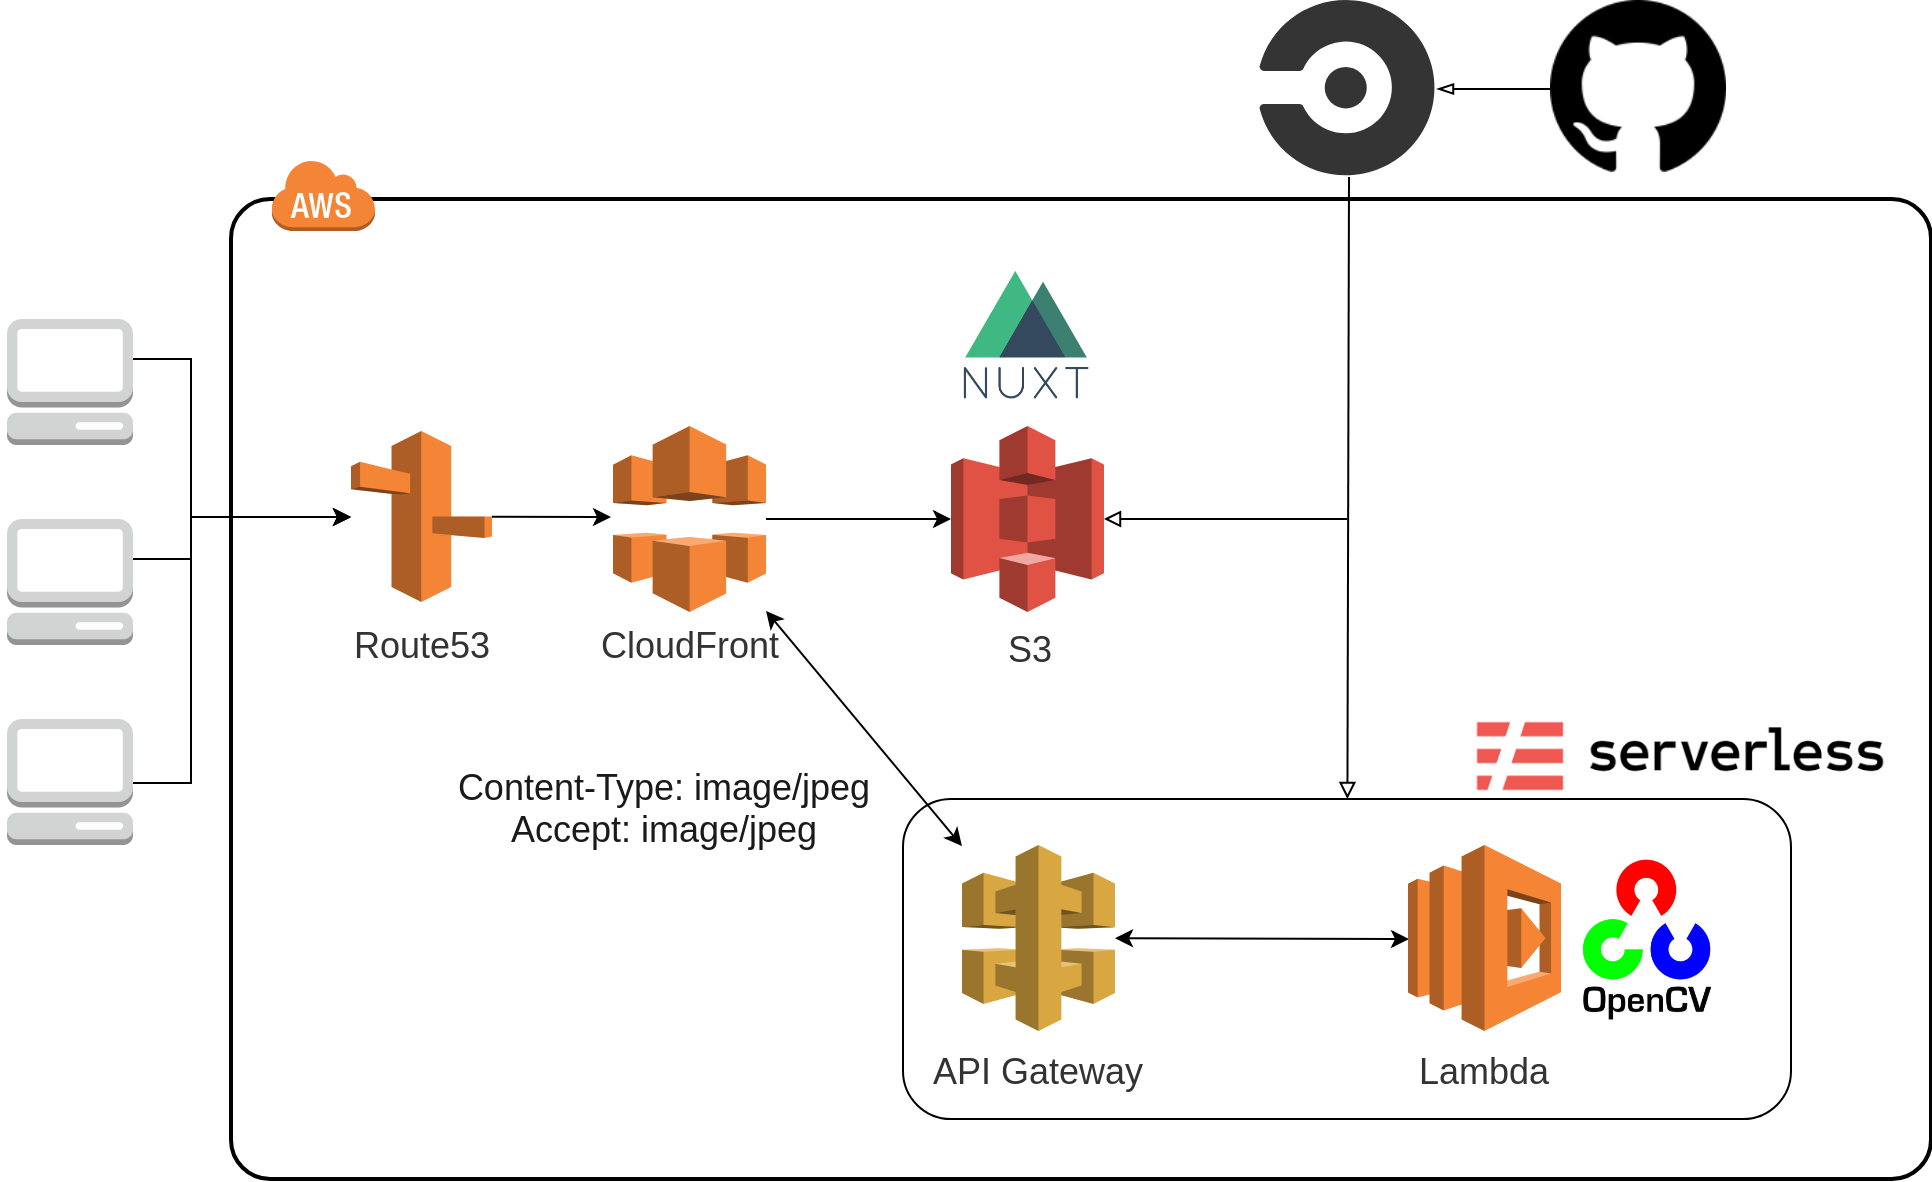
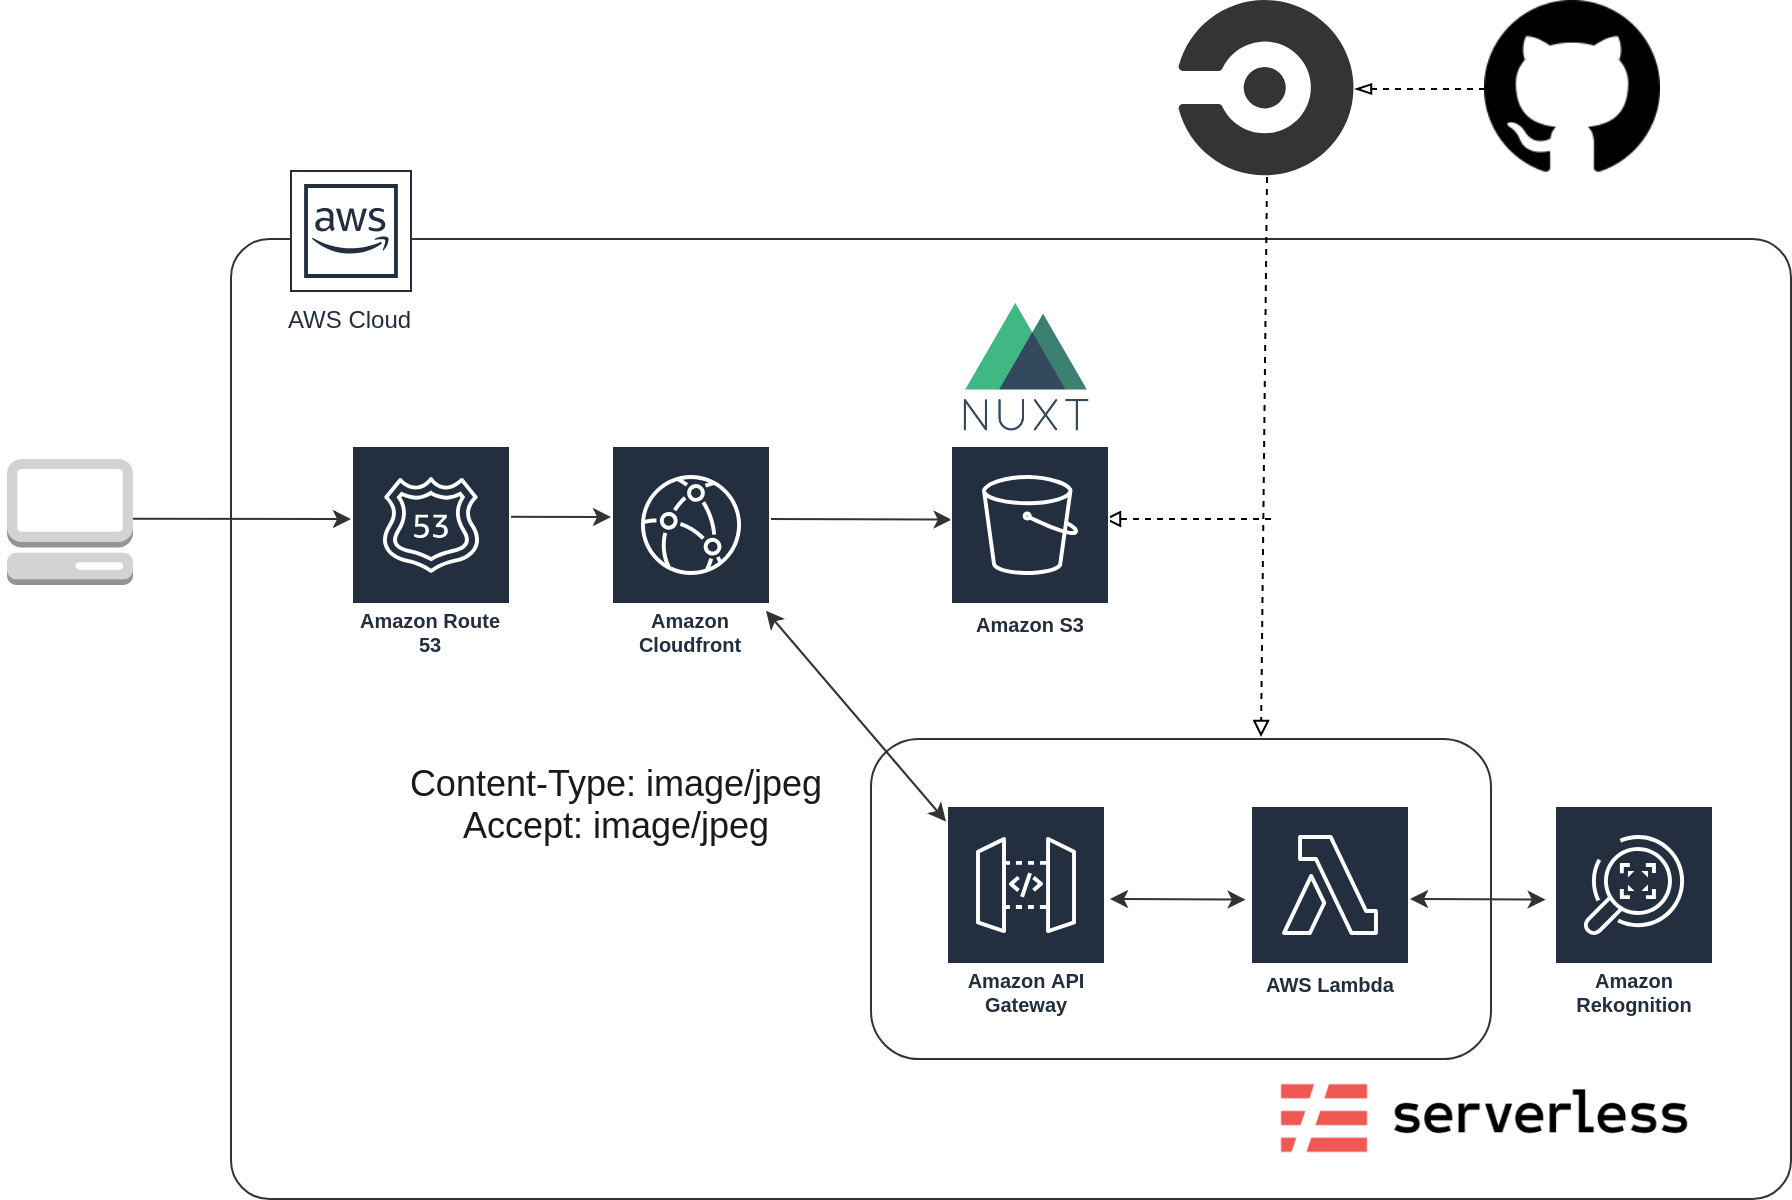
アーキテクチャ図を変更 (#52)
* アーキテクチャ図を変更

* リファクタリング

* トップページの画像を変更

* Readmeを修正

* Qiitaのリンクを追加

* リンクを修正

* 文言を修正

* type hintsの方を修正

diff --git a/lambda/detect_face.py b/lambda/detect_face.py
@@ -28,7 +28,7 @@ def convertBinaryToImageArray(binary: bytes) -> np.ndarray:
     return image_array
 
 
-def detectFacesByRekognition(image_binary: bytes) -> List[List[int]]:
+def detectFacesByRekognition(image_binary: bytes) -> List[List[float]]:
     client = boto3.client('rekognition')
     response = client.detect_faces(
         Image={'Bytes': image_binary}, Attributes=['ALL'])
@@ -48,7 +48,7 @@ face : 顔認識結果
 """
 
 
-def pasteEmoji(image: np.ndarray, face: List[int]) -> np.ndarray:
+def pasteEmoji(image: np.ndarray, face: List[float]) -> np.ndarray:
 
     height, width, _ = image.shape[:3]
 
@@ -69,7 +69,7 @@ def pasteEmoji(image: np.ndarray, face: List[int]) -> np.ndarray:
     # 顔が画像からはみ出しそうなときはサイズを小さくする
     if face_top + face_size > height or face_left + face_size > width:
         face_size = min(height - face_top, width - face_left)
-        
+
     # -1 : アルファチャンネルで読み込む
     emoji = cv2.imread(
         "emoji/{:0=3}.png".format(random.randrange(1, 71, 1)), -1)
@@ -119,13 +119,10 @@ def lambda_handler(event, context):
         response_image = io.BytesIO()
         Image.fromarray(image.astype('uint8')).save(
             response_image, "JPEG")
-
-        # レスポンスを作成
         body = base64.b64encode(response_image.getvalue()).decode('utf-8')
 
-        statusCode = 200
-
         # 204で顔が検出されなかったことを表現
+        statusCode = 200
         if len(faces) == 0:
             statusCode = 204
 

diff --git a/README.md b/README.md
@@ -11,14 +11,18 @@
 
 ![アーキテクチャ図](./docs/emojic_architecture.png)
 
-- [えもじっく](https://emojic.ch)のフロントエンドはNuxt.jsで構築されています。CircleCIでmasterブランチにマージされるたびにデプロイされます。
-- バックエンドはAWS API GatewayとLambdaを用いたサーバーレスな構成で構築されています。
-- Lambda関数はPythonで書かれており、OpenCVで顔認識を行っています。
+- [えもじっく](https://emojic.ch)のフロントエンドはNuxt.jsで構築されています。
+- バックエンドAPIはAamazon API GatewayとAWS LambdaをServerless Frameworkを使って構築しています。
+- Lambda関数はPythonで書かれており、Amazon Rekognitionを使って顔認識を行っています。
+- デプロイはすべてCircleCIで行っており、masterブランチにマージされるたびにデプロイされます。
+
+## 紹介記事
+[人の顔を絵文字😇に変換するWebサービスをAmazon Rekognition x Serverlessで開発して、デプロイをCIで自動化した話](https://qiita.com/wagase/items/fa0215cee44251bf2e50)
 
 ## Front-end
-[こちら](./frontend/README.md)のREADMEをご覧ください。
+[こちらのREADME](./frontend/README.md)をご覧ください。
 
 ## AWS Lambda
-[こちら](./lambda/README.md)のREADMEをご覧ください。
+[こちらのREADME](./lambda/README.md)をご覧ください。
 ## LICENSE
 MIT
